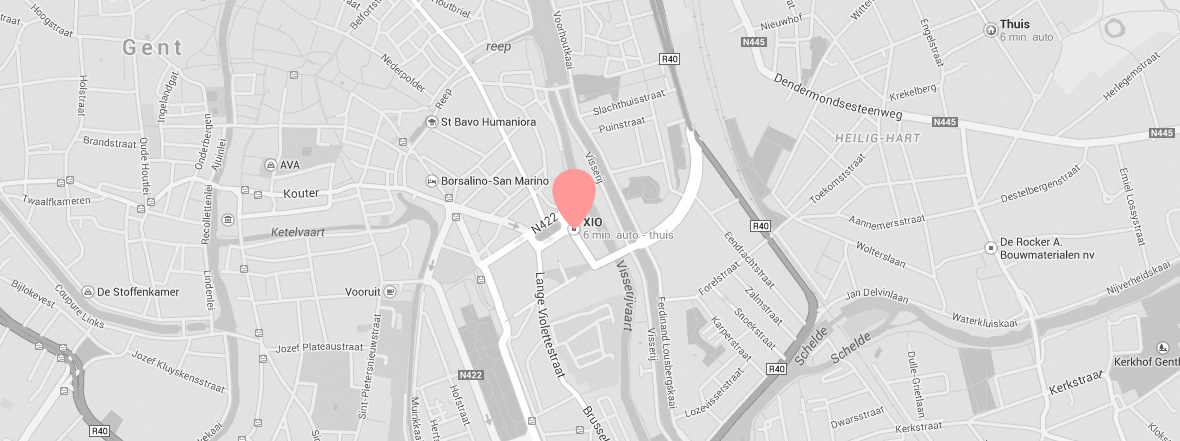
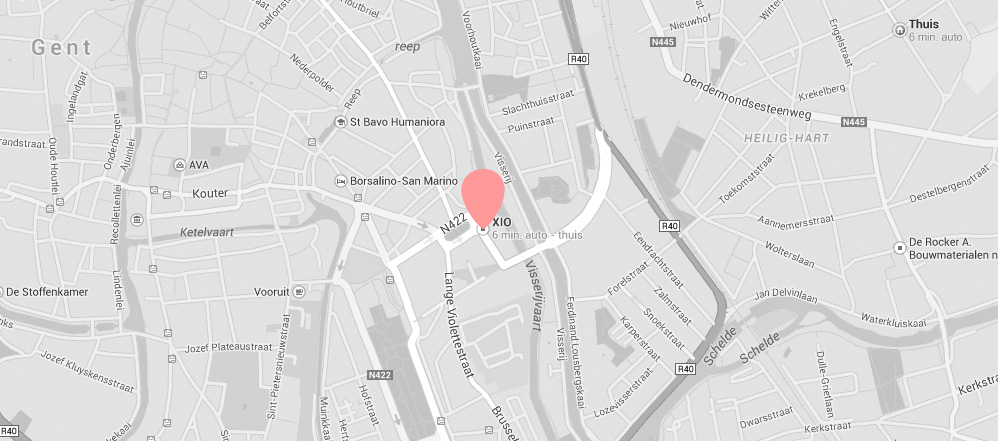
resizing

diff --git a/Contact.html b/Contact.html
@@ -28,7 +28,7 @@
   </ul>
 <hr>
 
-<div class='wrapper'>
+<div class='map'>
   <img src="Images/contact-map-edit.jpg" alt="Map">
 </div>
 

diff --git a/style.css b/style.css
@@ -100,3 +100,7 @@ hr {
 .subheadings {
   text-align: left;
 }
+
+.map {
+  text align: center;
+}
